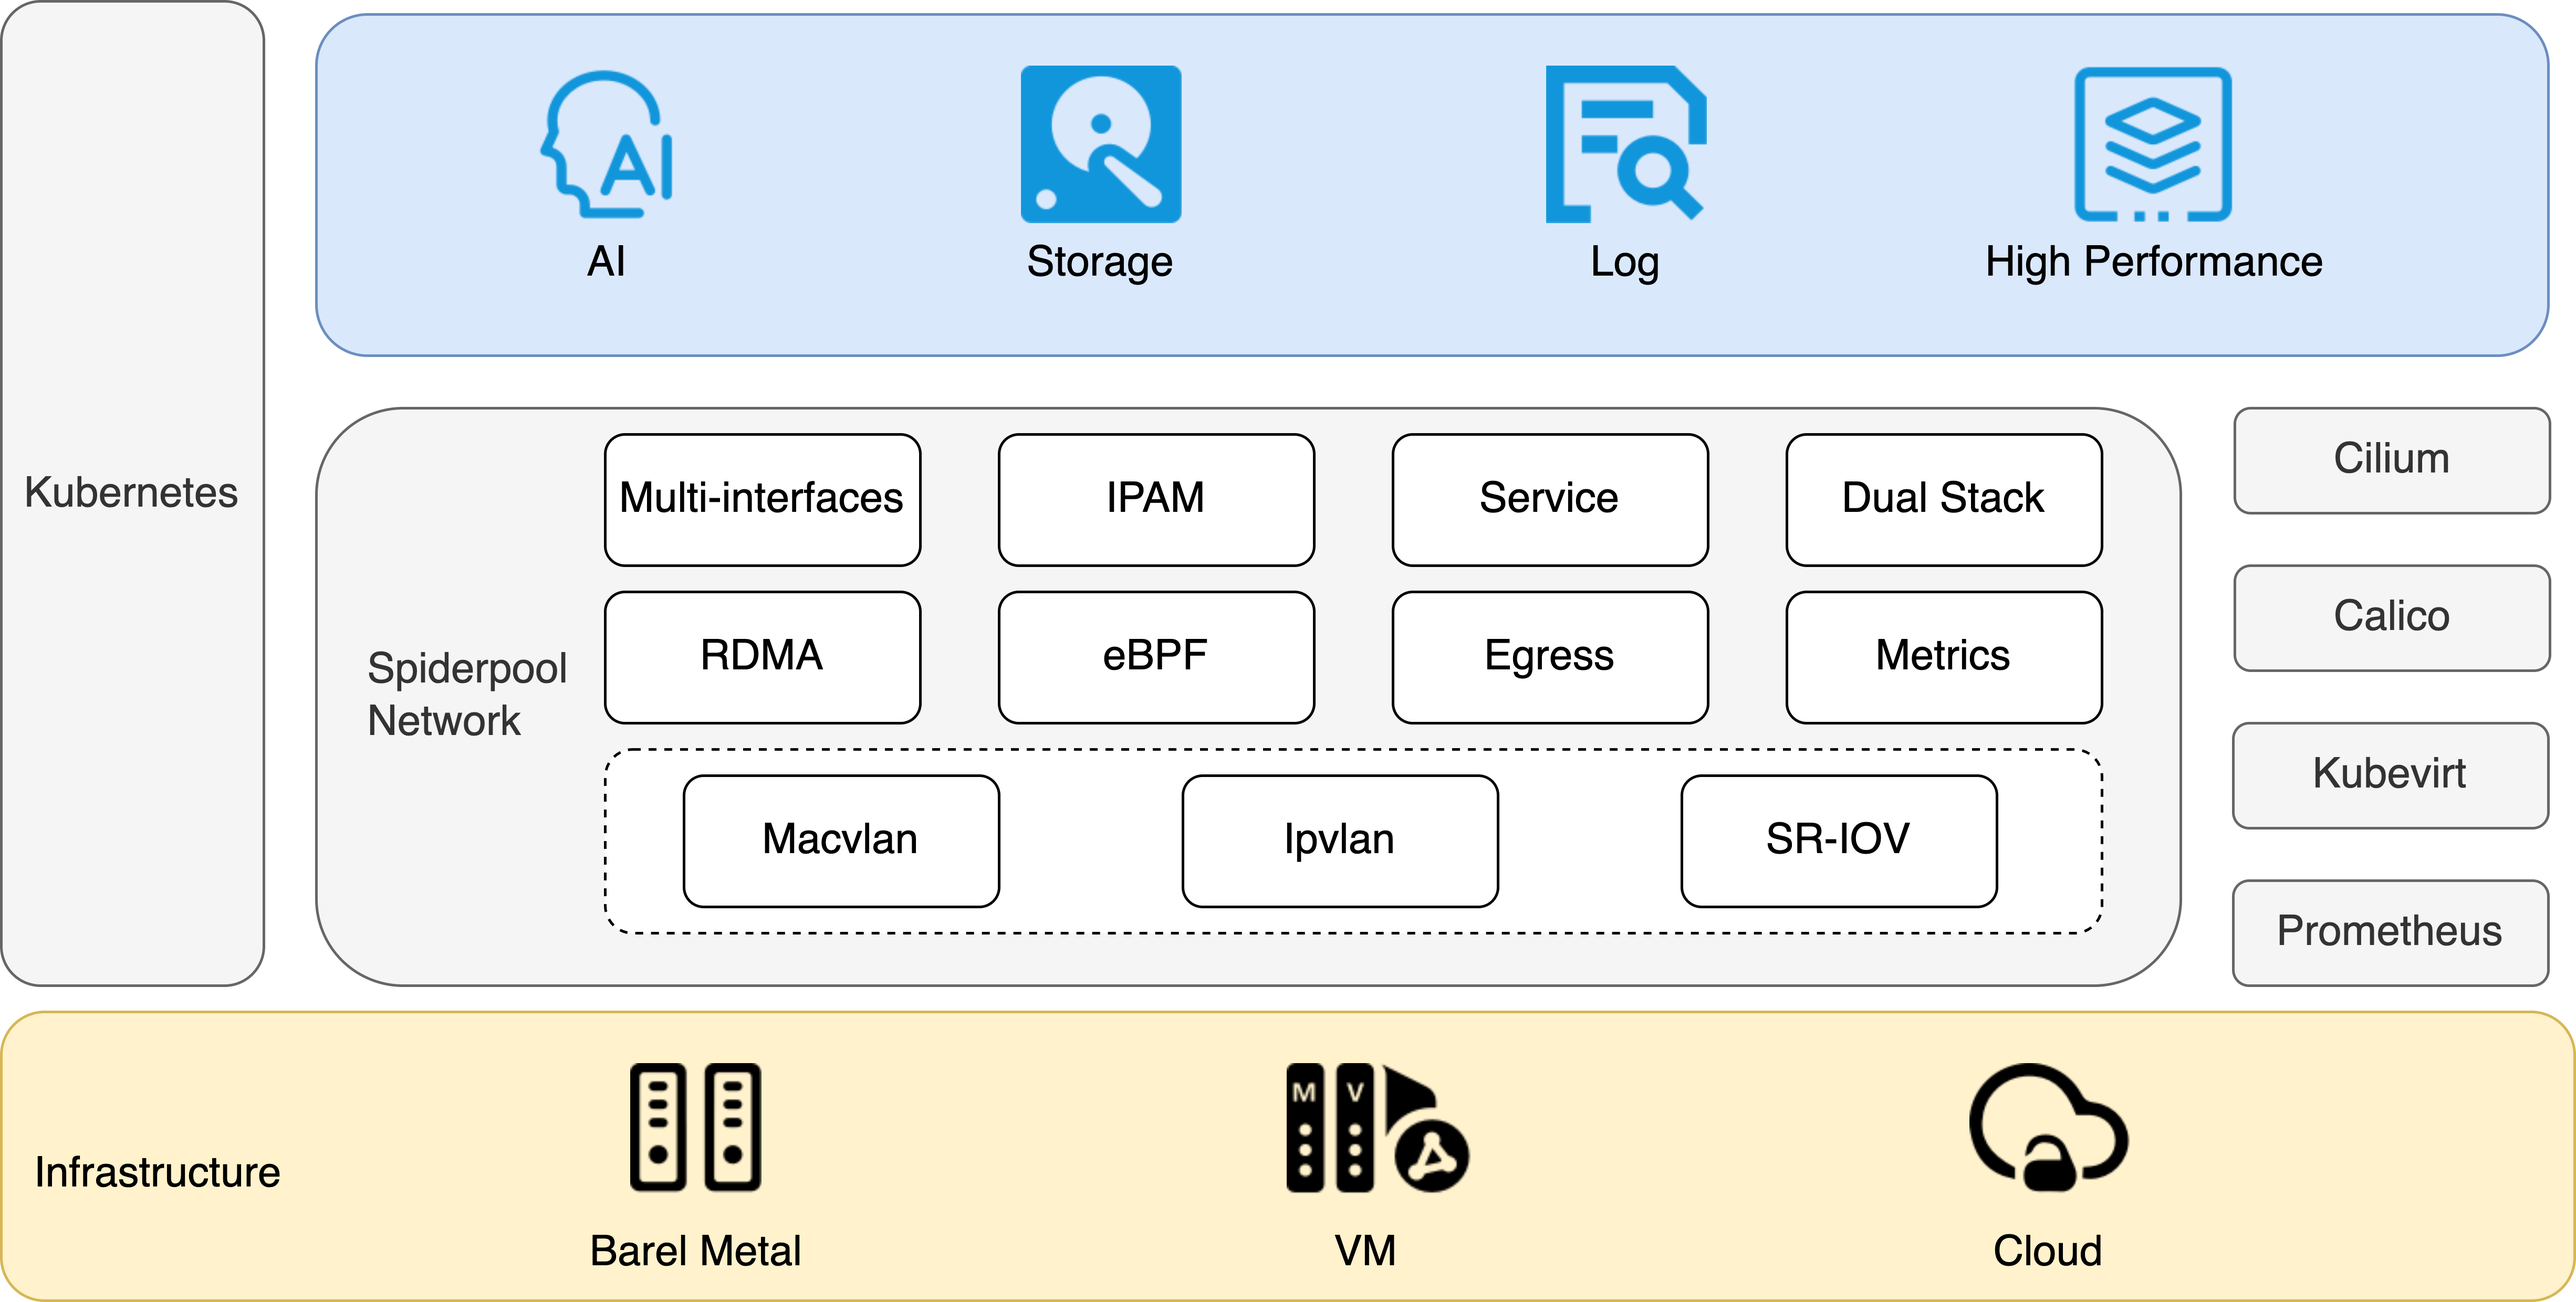
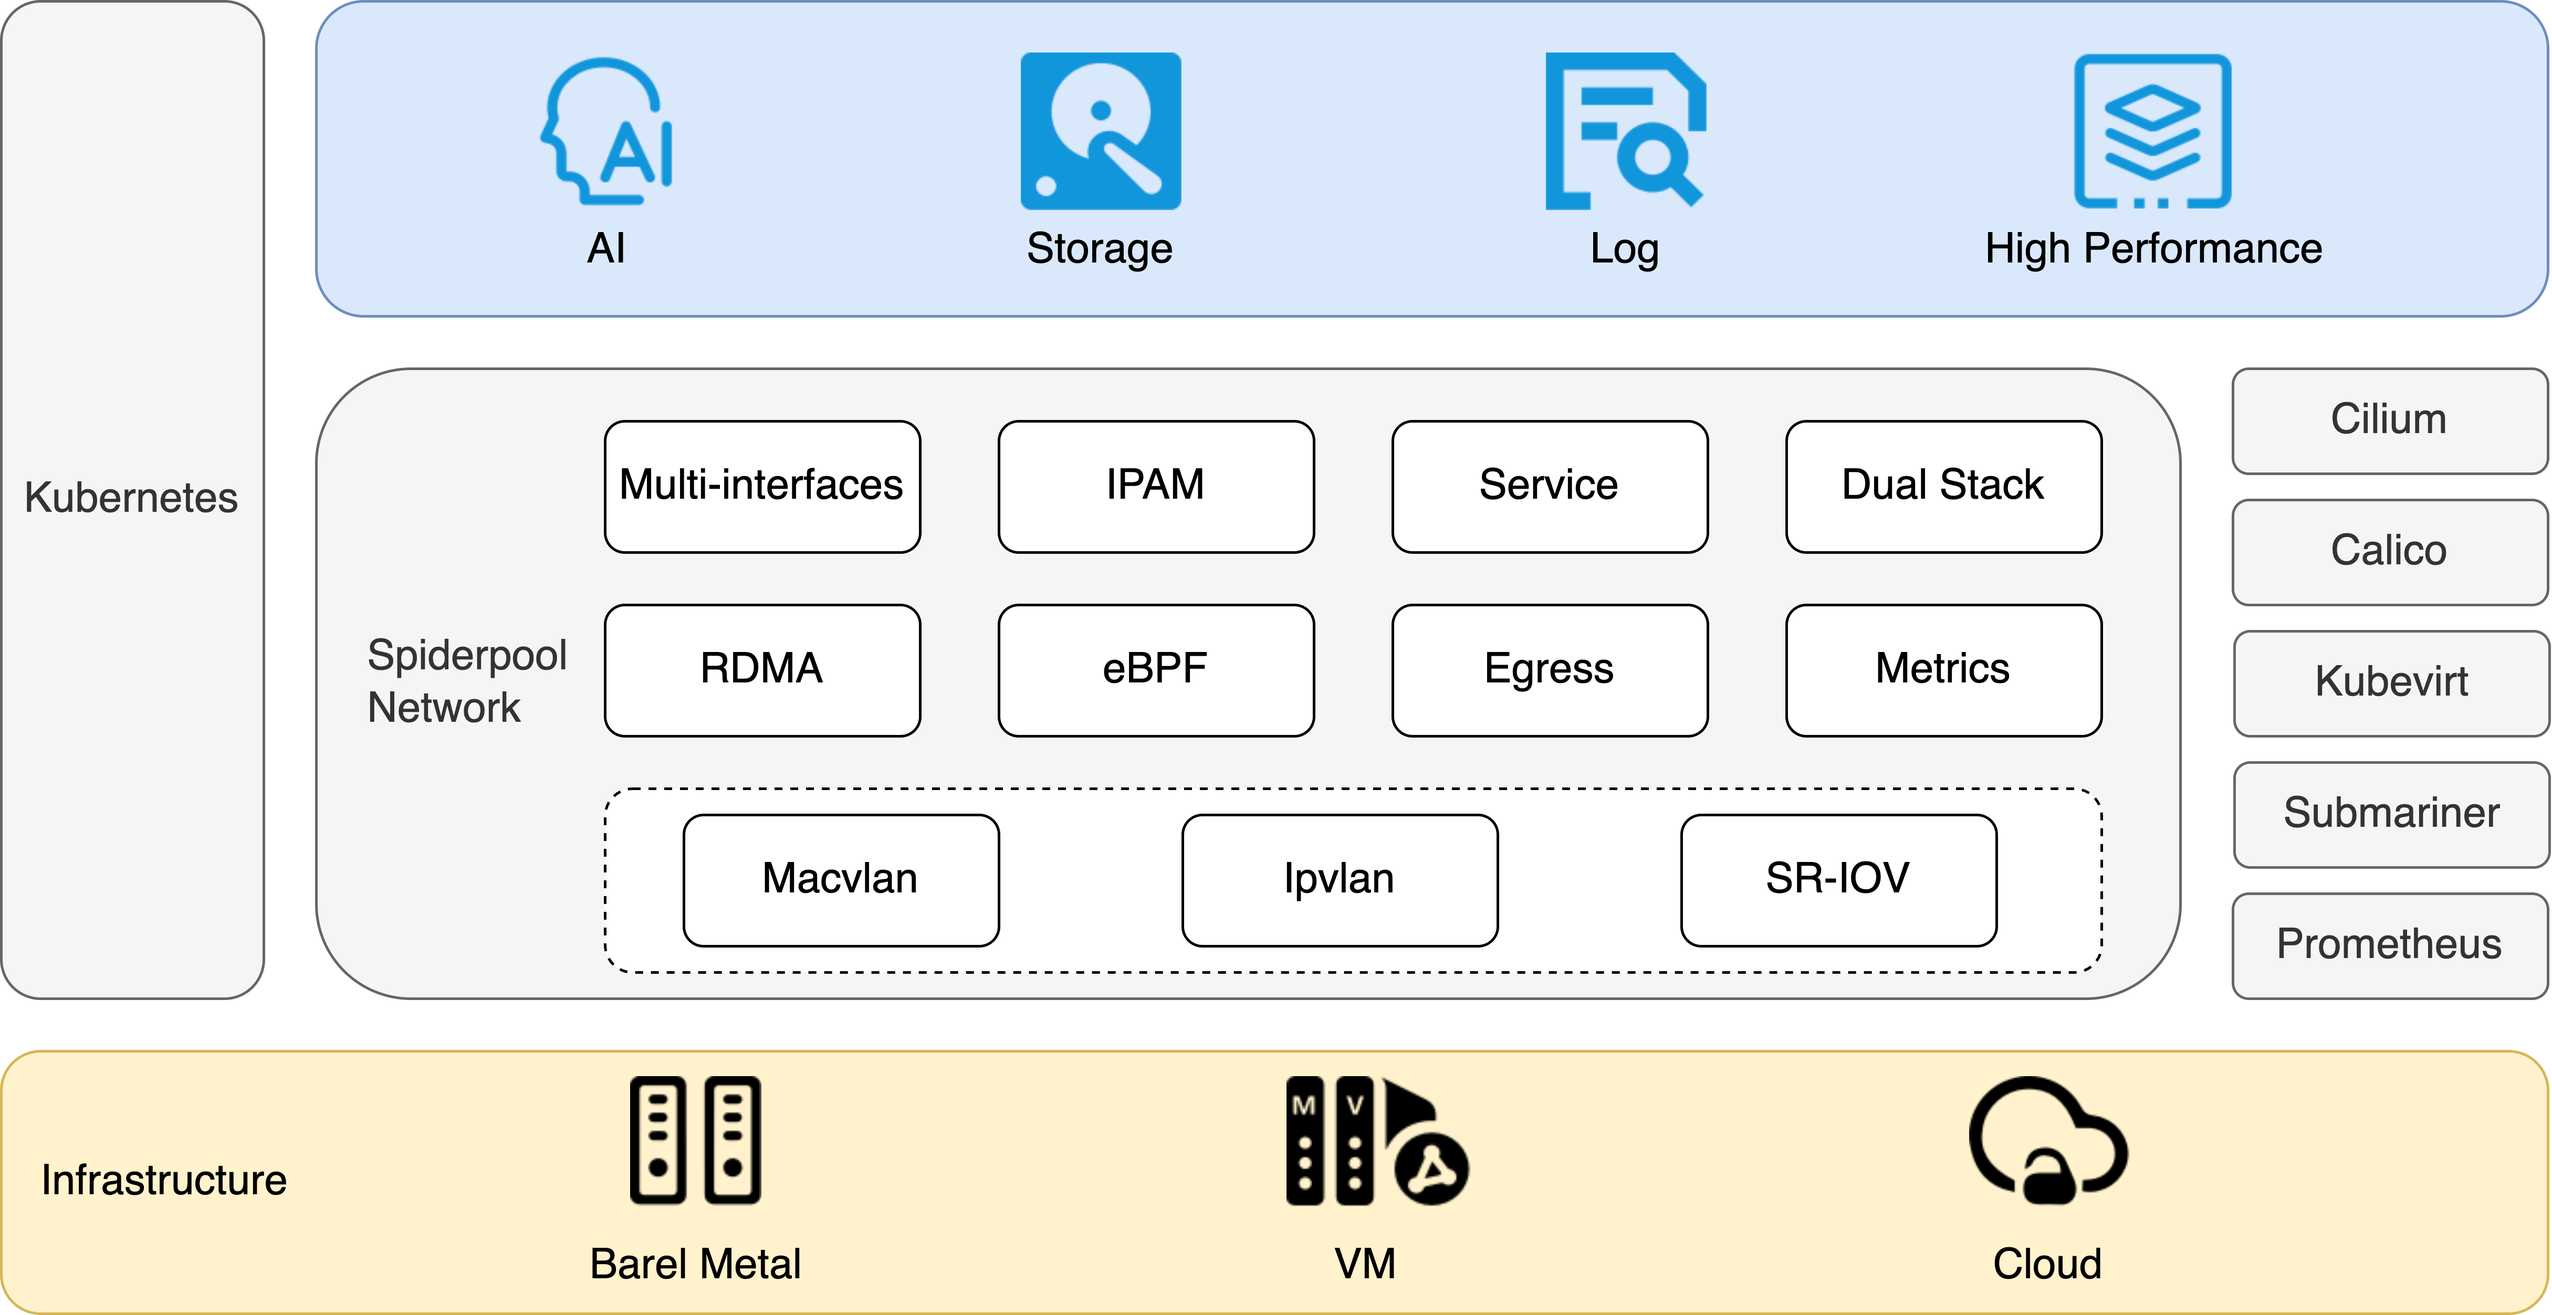
update image (#2776)
* update image

* update image

* update image

* submariner

* submariner

* submariner

* submariner

* submariner

* submariner

---------

diff --git a/README.md b/README.md
@@ -47,11 +47,11 @@ It could refer to [website](https://spidernet-io.github.io/spiderpool/) for more
 
     Spiderpool simplifies the installation process by eliminating the need for manually installing multiple components like [Multus CNI](https://github.com/k8snetworkplumbingwg/multus-cni). It provides streamlined installation procedures, encapsulates relevant CRDs, and offers comprehensive documentation for easy setup and management.
 
-* CRD-based dual-stack IPAM capability
+* CRD-based dual-stack IPAM
 
     Spiderpool provides exclusive and shared IP address pools, supporting various affinity settings. It allows configuring specific IP addresses for stateful applications like middleware and kubevirt, while enabling fixed IP address ranges for stateless ones. Spiderpool automates the management of exclusive IP pools, ensuring excellent IP reclamation to avoid IP leakage. In additions, it owns [wonderful IPAM performance](./docs/concepts/ipam-performance.md) .
 
-* Multiple network interface access for Pods
+* Multiple network interfaces for Pods
 
     Spiderpool enables scenarios where Pods can have multiple underlay CNI interfaces or a combination of overlay and underlay CNI interfaces. It ensures proper IP addressing for each CNI interface and effectively manages policy routing to maintain consistent data paths, eliminating packet loss concerns. It could strengthen [cilium](https://github.com/cilium/cilium), [calico](https://github.com/projectcalico/calico), [kubevirt](https://github.com/kubevirt/kubevirt) .
 
@@ -61,7 +61,7 @@ It could refer to [website](https://spidernet-io.github.io/spiderpool/) for more
 
 * eBPF enhancements
 
-    The eBPF-based kube-proxy replacement significantly accelerates service access, while socket short-circuiting technology improves local Pod communication efficiency within the same node. Compared with kube-proxy manner, [the improvement of the performance is Up to 25% on network delay, up to 50% on network throughput]((./docs/concepts/io-performance.md)).
+    The eBPF-based kube-proxy replacement significantly accelerates service access, while socket short-circuiting technology improves local Pod communication efficiency within the same node. Compared with kube-proxy manner, [the improvement of the performance is Up to 25% on network delay, up to 50% on network throughput](./docs/concepts/io-performance.md). The network of Multi-cluster could be connected by a same underlay network, or [Submariner](https://github.com/submariner-io/submariner) .
 
 * RDMA support
 
@@ -93,6 +93,8 @@ Spiderpool, powered by underlay CNI, offers unparalleled network performance com
 
 Refer to [Quick start](./docs/usage/install/get-started-kind.md) to explore Spiderpool quickly.
 
+Refer to [Usage](./docs/usage/readme.md) for kinds of usages.
+
 ## Spiderpool Architecture
 
 Spiderpool features a well-designed and comprehensive architecture that caters to various application scenarios, including:
@@ -111,15 +113,16 @@ For more detailed information, please refer to [Spiderpool Architecture](./docs/
 
 | Features                               | macvlan    | ipvlan | SR-IOV      |
 |----------------------------------|------------|--|-------------|
-| Service by kubeproxy             | Beta       |  Beta | Beta        |
-| Service by kubeproxy replacement | Alpha      |  Alpha | Alpha       |
-| Network policy                   | In-plan    |  Alpha | In-plan     |
+| Service By Kubeproxy             | Beta       |  Beta | Beta        |
+| Service By Kubeproxy Replacement | Alpha      |  Alpha | Alpha       |
+| Network Policy                   | In-plan    |  Alpha | In-plan     |
 | Bandwidth                        | In-plan    | Alpha | In-plan     |
 | RDMA                             | Alpha      | Alpha | Alpha       |
 | IPAM                             | Beta       | Beta | Beta        |
-| Egress policy                    | Alpha      | Alpha | Alpha       |
-| Multiple NIC and routing coordination                         | Beta       | Beta | Beta        |
-| Applied scenarios                             | Bare metal | Bare metal and VM | Bare metal  |
+| Multi-Cluster                    | Alpha    | Alpha | Alpha     |
+| Egress Policy                    | Alpha      | Alpha | Alpha       |
+| Multiple NIC And Routing Coordination                         | Beta       | Beta | Beta        |
+| Scenarios                             | Bare metal | Bare metal and VM | Bare metal  |
 
 For detailed information about all the planned features, please refer to the [roadmap](./docs/develop/roadmap.md).
 

diff --git a/docs/README.md b/docs/README.md
@@ -47,11 +47,11 @@ It could refer to [website](https://spidernet-io.github.io/spiderpool/) for more
 
   Spiderpool simplifies the installation process by eliminating the need for manually installing multiple components like [Multus CNI](https://github.com/k8snetworkplumbingwg/multus-cni). It provides streamlined installation procedures, encapsulates relevant CRDs, and offers comprehensive documentation for easy setup and management.
 
-* CRD-based dual-stack IPAM capability
+* CRD-based dual-stack IPAM
 
   Spiderpool provides exclusive and shared IP address pools, supporting various affinity settings. It allows configuring specific IP addresses for stateful applications like middleware and kubevirt, while enabling fixed IP address ranges for stateless ones. Spiderpool automates the management of exclusive IP pools, ensuring excellent IP reclamation to avoid IP leakage. In additions, it owns [wonderful IPAM performance](./concepts/ipam-performance.md).
 
-* Multiple network interface access for Pods
+* Multiple network interfaces for Pods
 
   Spiderpool enables scenarios where Pods can have multiple underlay CNI interfaces or a combination of overlay and underlay CNI interfaces. It ensures proper IP addressing for each CNI interface and effectively manages policy routing to maintain consistent data paths, eliminating packet loss concerns. It could strengthen [cilium](https://github.com/cilium/cilium), [calico](https://github.com/projectcalico/calico), [kubevirt](https://github.com/kubevirt/kubevirt) .
 
@@ -61,7 +61,7 @@ It could refer to [website](https://spidernet-io.github.io/spiderpool/) for more
 
 * eBPF enhancements
 
-  The eBPF-based kube-proxy replacement significantly accelerates service access, while socket short-circuiting technology improves local Pod communication efficiency within the same node. Compared with kube-proxy manner, [the improvement of the performance is Up to 25% on network delay, up to 50% on network throughput](./concepts/io-performance.md).
+  The eBPF-based kube-proxy replacement significantly accelerates service access, while socket short-circuiting technology improves local Pod communication efficiency within the same node. Compared with kube-proxy manner, [the improvement of the performance is Up to 25% on network delay, up to 50% on network throughput](./concepts/io-performance.md). The network of Multi-cluster could be connected by a same underlay network, or [Submariner](https://github.com/submariner-io/submariner) .
 
 * RDMA support
 
@@ -93,6 +93,8 @@ Spiderpool, powered by underlay CNI, offers unparalleled network performance com
 
 Refer to [Quick start](./usage/install/get-started-kind.md) to explore Spiderpool quickly.
 
+Refer to [Usage](./usage/readme.md) for kinds of usages.
+
 ## Spiderpool Architecture
 
 Spiderpool features a well-designed and comprehensive architecture that caters to various application scenarios, including:
@@ -111,15 +113,16 @@ For more detailed information, please refer to [Spiderpool Architecture](./conce
 
 | Features                               | macvlan    | ipvlan | SR-IOV      |
 |----------------------------------|------------|--|-------------|
-| Service by kubeproxy             | Beta       |  Beta | Beta        |
-| Service by kubeproxy replacement | Alpha      |  Alpha | Alpha       |
-| Network policy                   | In-plan    |  Alpha | In-plan     |
+| Service By Kubeproxy             | Beta       |  Beta | Beta        |
+| Service By Kubeproxy Replacement | Alpha      |  Alpha | Alpha       |
+| Network Policy                   | In-plan    |  Alpha | In-plan     |
 | Bandwidth                        | In-plan    | Alpha | In-plan     |
 | RDMA                             | Alpha      | Alpha | Alpha       |
 | IPAM                             | Beta       | Beta | Beta        |
-| Egress policy                    | Alpha      | Alpha | Alpha       |
-| Multiple NIC and routing coordination                         | Beta       | Beta | Beta        |
-| Applied scenarios                             | Bare metal | Bare metal and VM | Bare metal  |
+| Multi-Cluster                    | Alpha    | Alpha | Alpha     |
+| Egress Policy                    | Alpha      | Alpha | Alpha       |
+| Multiple NIC And Routing Coordination                         | Beta       | Beta | Beta        |
+| Scenarios                             | Bare metal | Bare metal and VM | Bare metal  |
 
 For detailed information about all the planned features, please refer to the [roadmap](./develop/roadmap.md).
 

diff --git a/docs/develop/roadmap.md b/docs/develop/roadmap.md
@@ -58,7 +58,7 @@
 | dual-stack               | dual-stack                                                                                                                           | v0.2.0        | v0.4.0       |            |
 | CLI                      | debug and operate. check which pod an IP is taken by, check IP usage , trigger GC                                                    | In plan       |              |            |
 | multi-cluster            | a broker cluster could synchronize ippool resource within a same subnet from all member clusters, which could help avoid IP conflict | In plan       |              |            |
-|                          | support submariner                                                                                                                   | In plan       |              |            |
+|                          | support submariner                                                                                                                   | v0.8.0        |              |            |
 | dual CNI                 | underlay cooperate with cilium                                                                                                       | v0.7.0        |              |            |
 |                          | underlay cooperate with calico                                                                                                       | v0.7.0        |              |            |
 | RDMA                     | support macvlan and ipvlan CNI for RoCE device                                                                                       | v0.8.0        |              |            |

diff --git a/docs/usage/readme.md b/docs/usage/readme.md
@@ -125,6 +125,8 @@ For instructions on how to upgrade Spiderpool, please refer to the [upgrade guid
 
 - Spiderpool assists in IP address conflict detection and gateway reachability checks, ensuring uninterrupted Pod communication. Refer to the [example](../concepts/coordinator.md) for details.
 
+- The network of Multi-cluster could be connected by a same underlay network, or [Submariner](./submariner.md) .
+
 ### Operations and Management
 
 - Spiderpool dynamically creates BOND interfaces and VLAN sub-interfaces on the host machine during Pod startup. This feature assists in setting up master interfaces for  [Macvlan CNI](https://github.com/containernetworking/plugins/tree/main/plugins/main/macvlan) and [ipvlan CNI](https://github.com/containernetworking/plugins/tree/main/plugins/main/ipvlan). Check out the [example](../reference/plugin-ifacer.md) for implementation details.

diff --git a/docs/usage/readme-zh_CN.md b/docs/usage/readme-zh_CN.md
@@ -126,6 +126,8 @@
 
 - 能够帮助实施 IP 地址冲突检测、网关可达性检测，以保证 Pod 通信正常，可参考[例子](../concepts/coordinator.md)。
 
+- 多集群网络可基于相同的 underlay 网络或者 [Submariner](./submariner-zh_CN.md) 实现联通。
+
 ### 运维管理功能
 
 - 在 Pod 启动时，能够在宿主机上动态创建 BOND 接口和 VLAN 子接口，以帮助
